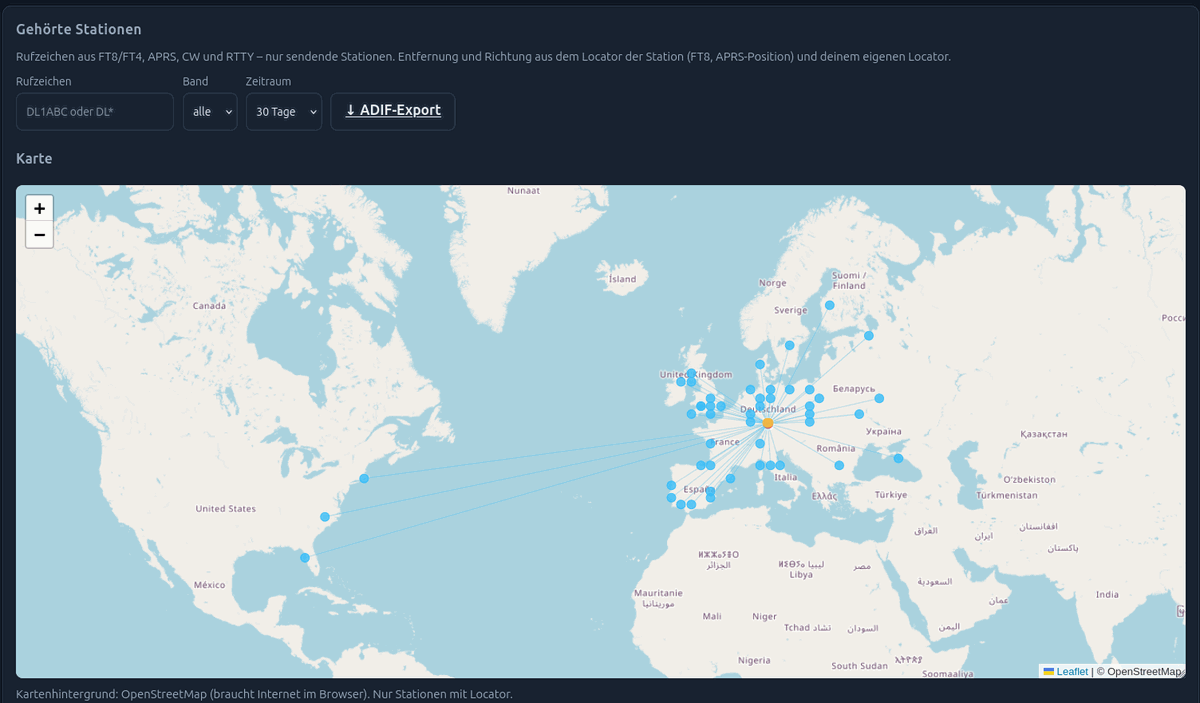
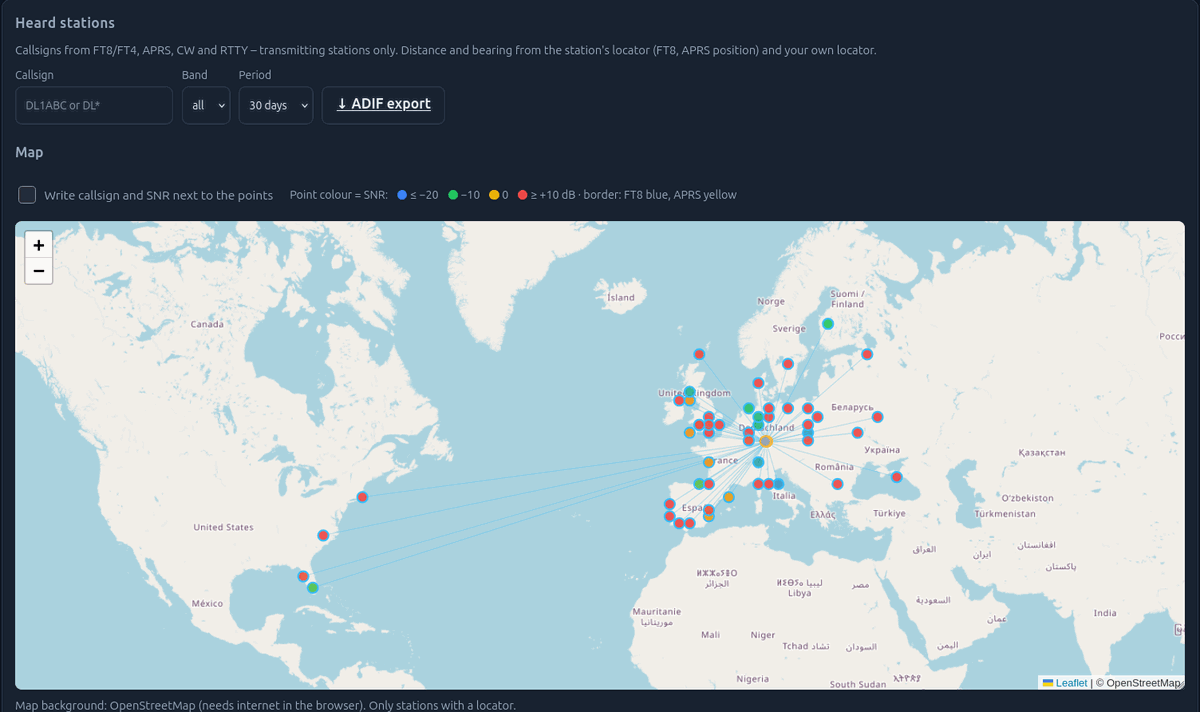
HamScanPi 1.7.6: Kartenbild mit SNR-Farben, Update-Werkzeug im Repository

diff --git a/README.md b/README.md
@@ -84,7 +84,7 @@ PMSDR receiver (IW3AUT) for shortwave.
 *Stations: callsigns heard via APRS/FT8/CW with locator, distance and bearing (ADIF export); FM stations with RDS name, PI, programme type and radio text.*
 
 ![Map of heard stations: FT8 on 80/60/40/30/20 m from JN59, up to the US east coast](docs/screenshots/map.png)
-*Map of heard stations (one evening of FT8 scans on 80–20 m with an HF-360 vertical): lines from the own locator, up to 7,900 km.*
+*Map of heard stations (one evening of FT8 scans on 80–20 m with an HF-360 vertical): lines from the own locator, up to 7,900 km; point colour = SNR, border = mode.*
 
 <img src="docs/screenshots/tmc.png" width="560" alt="Live FM reception with RDS and TMC traffic messages">
 

diff --git a/CHANGELOG.md b/CHANGELOG.md
@@ -1,5 +1,11 @@
 # Changelog
 
+## 1.7.6 – 2026-10-25
+
+- README: map screenshot with SNR colours.
+- `devtools/build_update.sh` and `devtools/update_head.sh`: build the self-extracting update file
+  `hamscanpi-update.sh` from the repository (until now this tool only existed outside the repo).
+
 ## 1.7.5 – 2026-10-24
 
 - **Test satellites Meteor-M N2-3 and N2-4** (137.9 MHz, transmit continuously with a ~120 kHz wide LRPT
